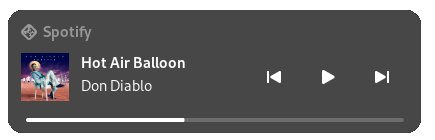
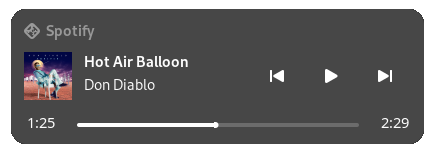
Timestamps finally added

diff --git a/progressBar.js b/progressBar.js
@@ -1,6 +1,8 @@
 import Gio from "gi://Gio";
 import GLib from "gi://GLib";
 import GObject from "gi://GObject";
+import St from 'gi://St';
+
 
 import {Slider} from 'resource:///org/gnome/shell/ui/slider.js';
 
@@ -25,7 +27,13 @@ export class ProgressBarManager extends Slider {
 
 
         this._mediaSection = mediaSection;
-
+        this.timestamp1 = new St.Label({
+            style_class: "progressbar-timestamp"
+        });
+        this.timestamp1.set_text("0:00");
+        this.timestamp2 = new St.Label({
+            style_class: "progressbar-timestamp"
+        });
     }
 
     _addProgress(name, owners, newOwner, oldOwner) {
@@ -43,7 +51,6 @@ export class ProgressBarManager extends Slider {
                     // log("No length, no position expected");
                     position = false;
                 }
-                playerProxy = null;
 
                 if (!position)
                     return;
@@ -56,7 +63,14 @@ export class ProgressBarManager extends Slider {
                         return;
                 }
                 let progressBar = new ProgressBar(0, this, name);
-                i.get_child().add_child(progressBar);
+                let box = new St.BoxLayout();
+                let length = playerProxy.Metadata["mpris:length"].deepUnpack() / 60000000;
+                playerProxy = null;
+                this.timestamp2.set_text(`${Math.floor(length)}:${Math.floor((length - Math.floor(length))*60).toLocaleString('en-US', {minimumIntegerDigits: 2, useGrouping:false})}`);
+                box.add_child(this.timestamp1);
+                box.add_child(progressBar);
+                box.add_child(this.timestamp2);
+                i.get_child().add_child(box);
 
                 i._player.connect('closed', () => {
                     if (timeout)
@@ -101,6 +115,7 @@ export class ProgressBar extends Slider {
 
         this._busName = busName;
         this.manager = manager;
+        this.timestamp = manager.timestamp1;
         this.add_style_class_name('progress-bar');
         this.track_hover = true;
 
@@ -115,13 +130,15 @@ export class ProgressBar extends Slider {
             if (this._dragging || this._playerProxy.PlaybackStatus !== "Playing")
                 return;
             if (!this) {
-                log("bru")
+                log("bru");
                 clearInterval(timeout);
                 return;
             }
-            const position = this.getPosition();
+            let position = this.getPosition();
             log(position);
             this.value = position / this._length;
+            position = position / 60000000;
+            this.timestamp.set_text(`${Math.floor(position)}:${Math.floor((position - Math.floor(position))*60).toLocaleString('en-US', {minimumIntegerDigits: 2, useGrouping:false})}`);
         }, 1000);
 
         this.connect("drag-end", () => {

diff --git a/extension.js b/extension.js
@@ -22,7 +22,7 @@ export default class extension extends Extension {
             clearInterval(timeout);
             // this.media_section._messages.remove_actor(progressBar).catch(() => log("not removed"));
             for (let j of i.get_child().get_children()) {
-                if (j instanceof ProgressBar) {
+                if (j.get_children()[1] instanceof ProgressBar) {
                     i.get_child().remove_child(j);
                     j.destroy();
                 }

diff --git a/README.md b/README.md
@@ -12,4 +12,4 @@ git clone https://github.com/Krypion17/media-progress && mv media-progress media
 Then re-login and enable from the extension app, if not enabled.
 
 ## TODO
-- Add timestamp
+- Maybe a settings menu to disable timestamps.
